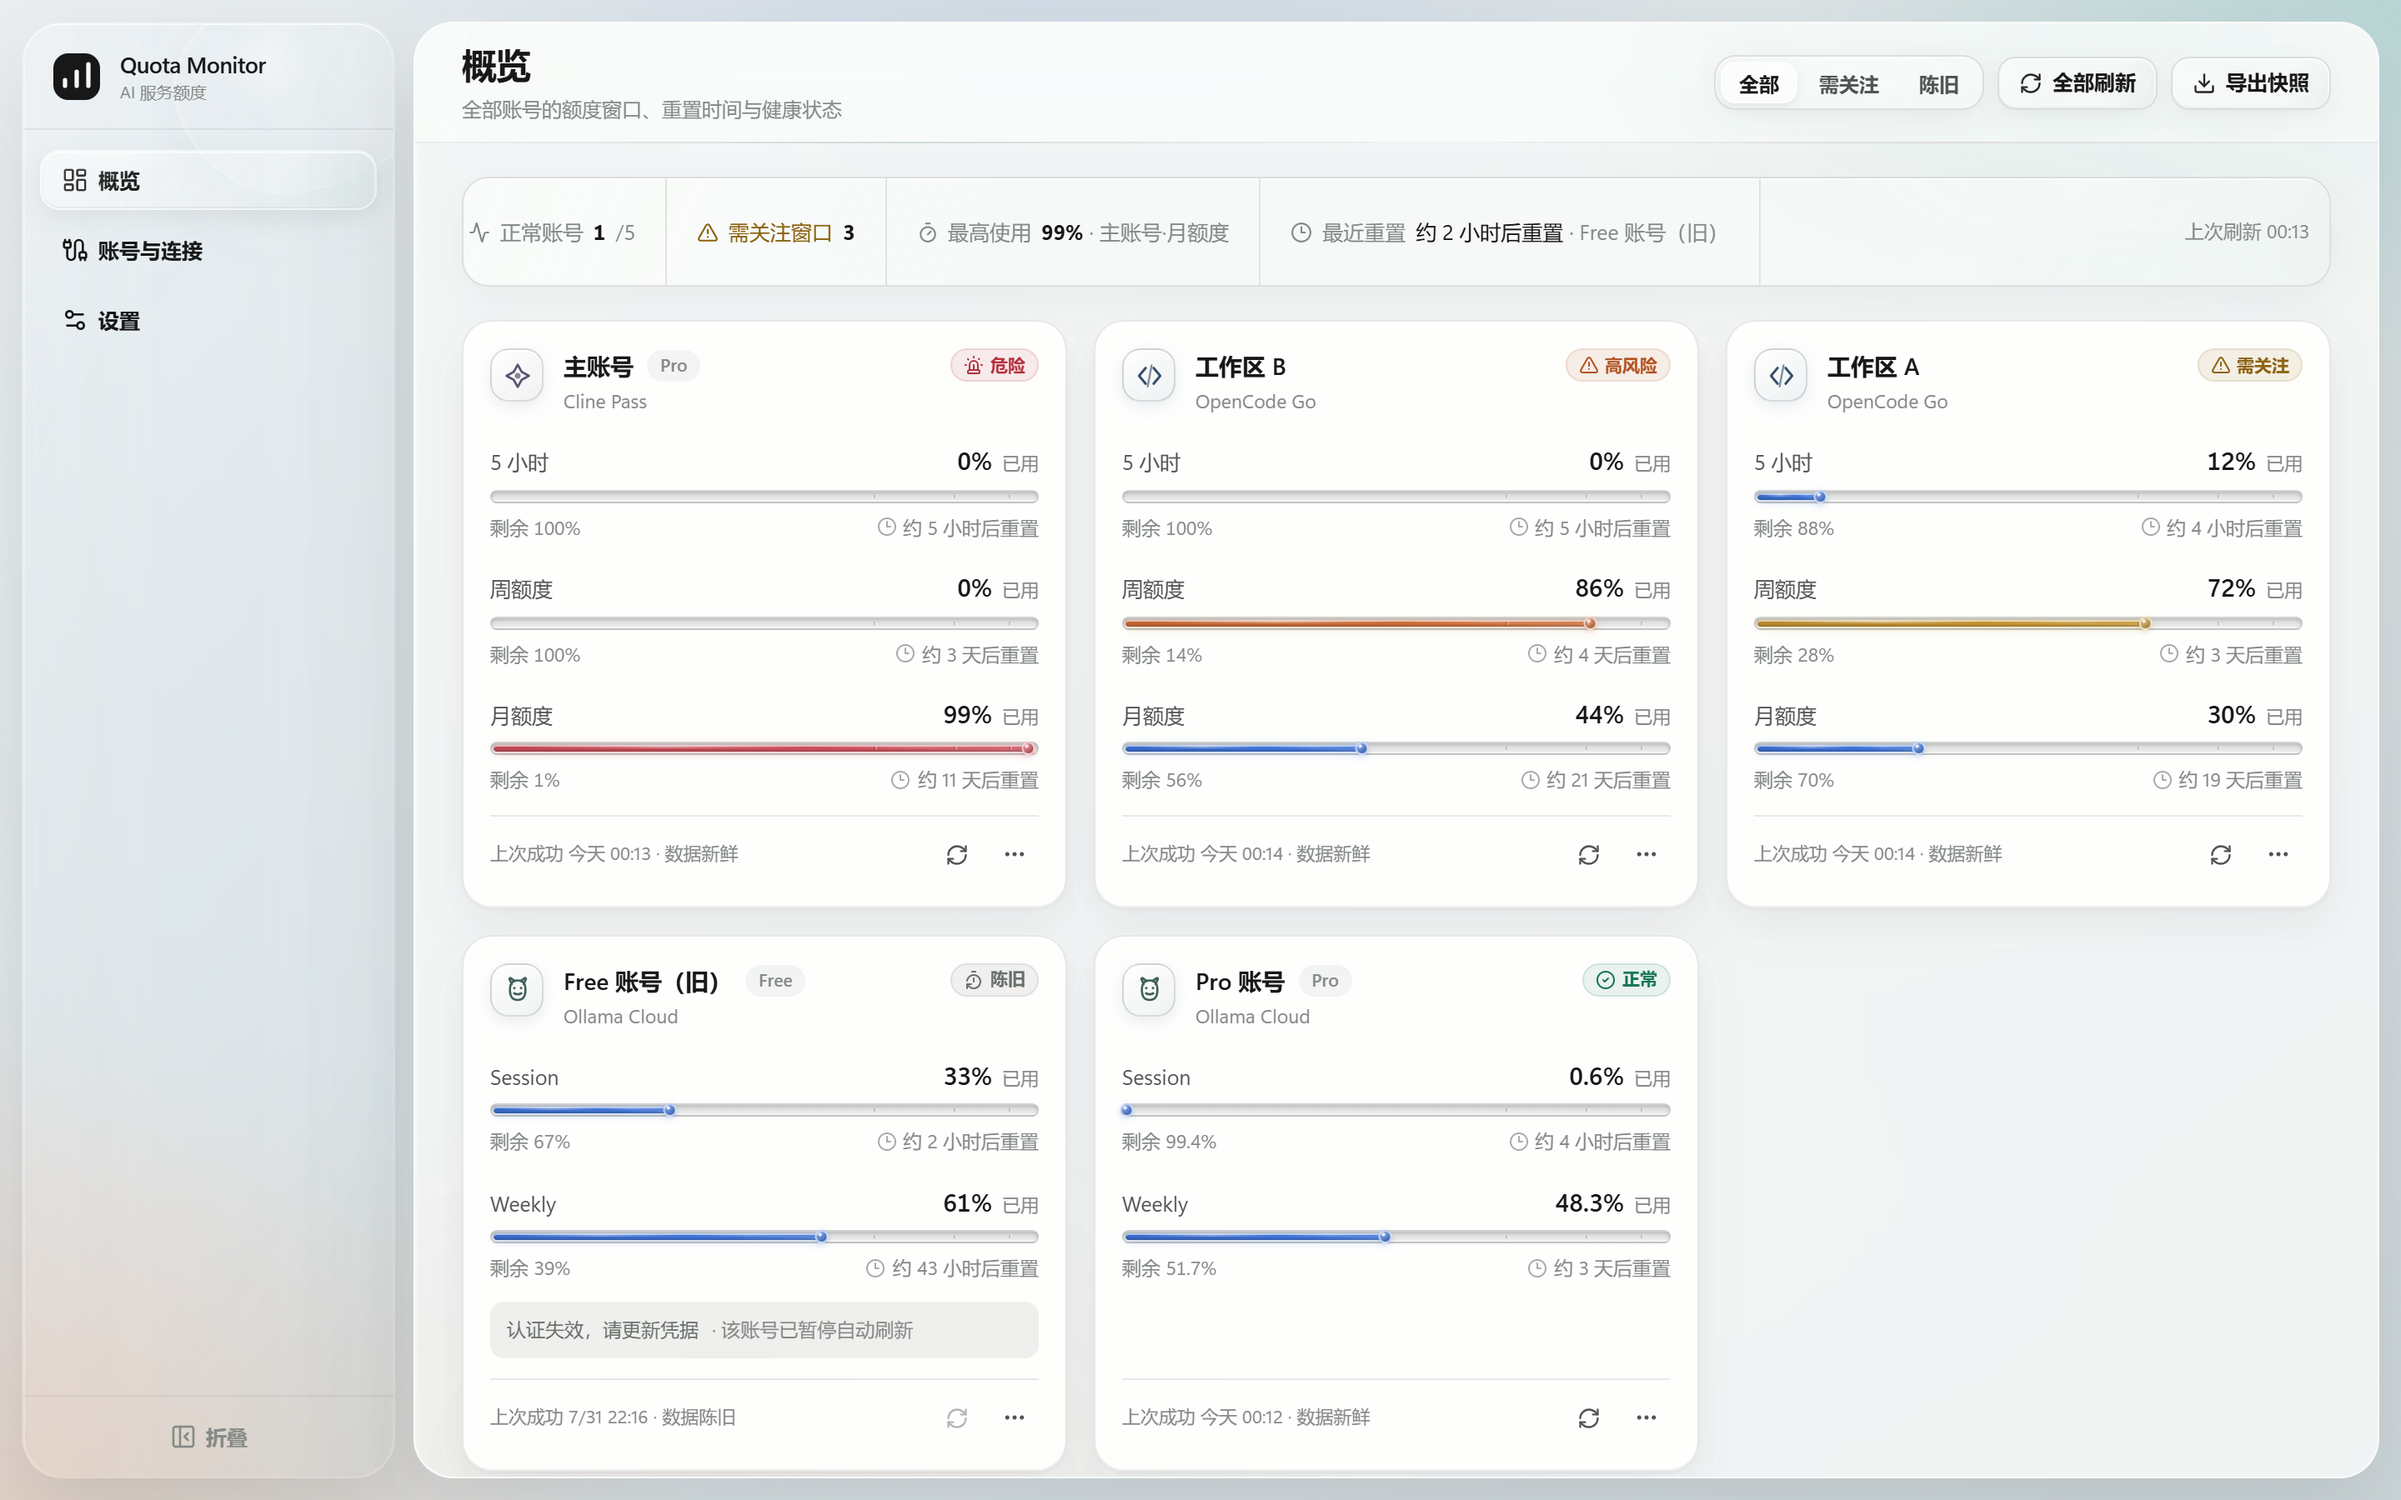
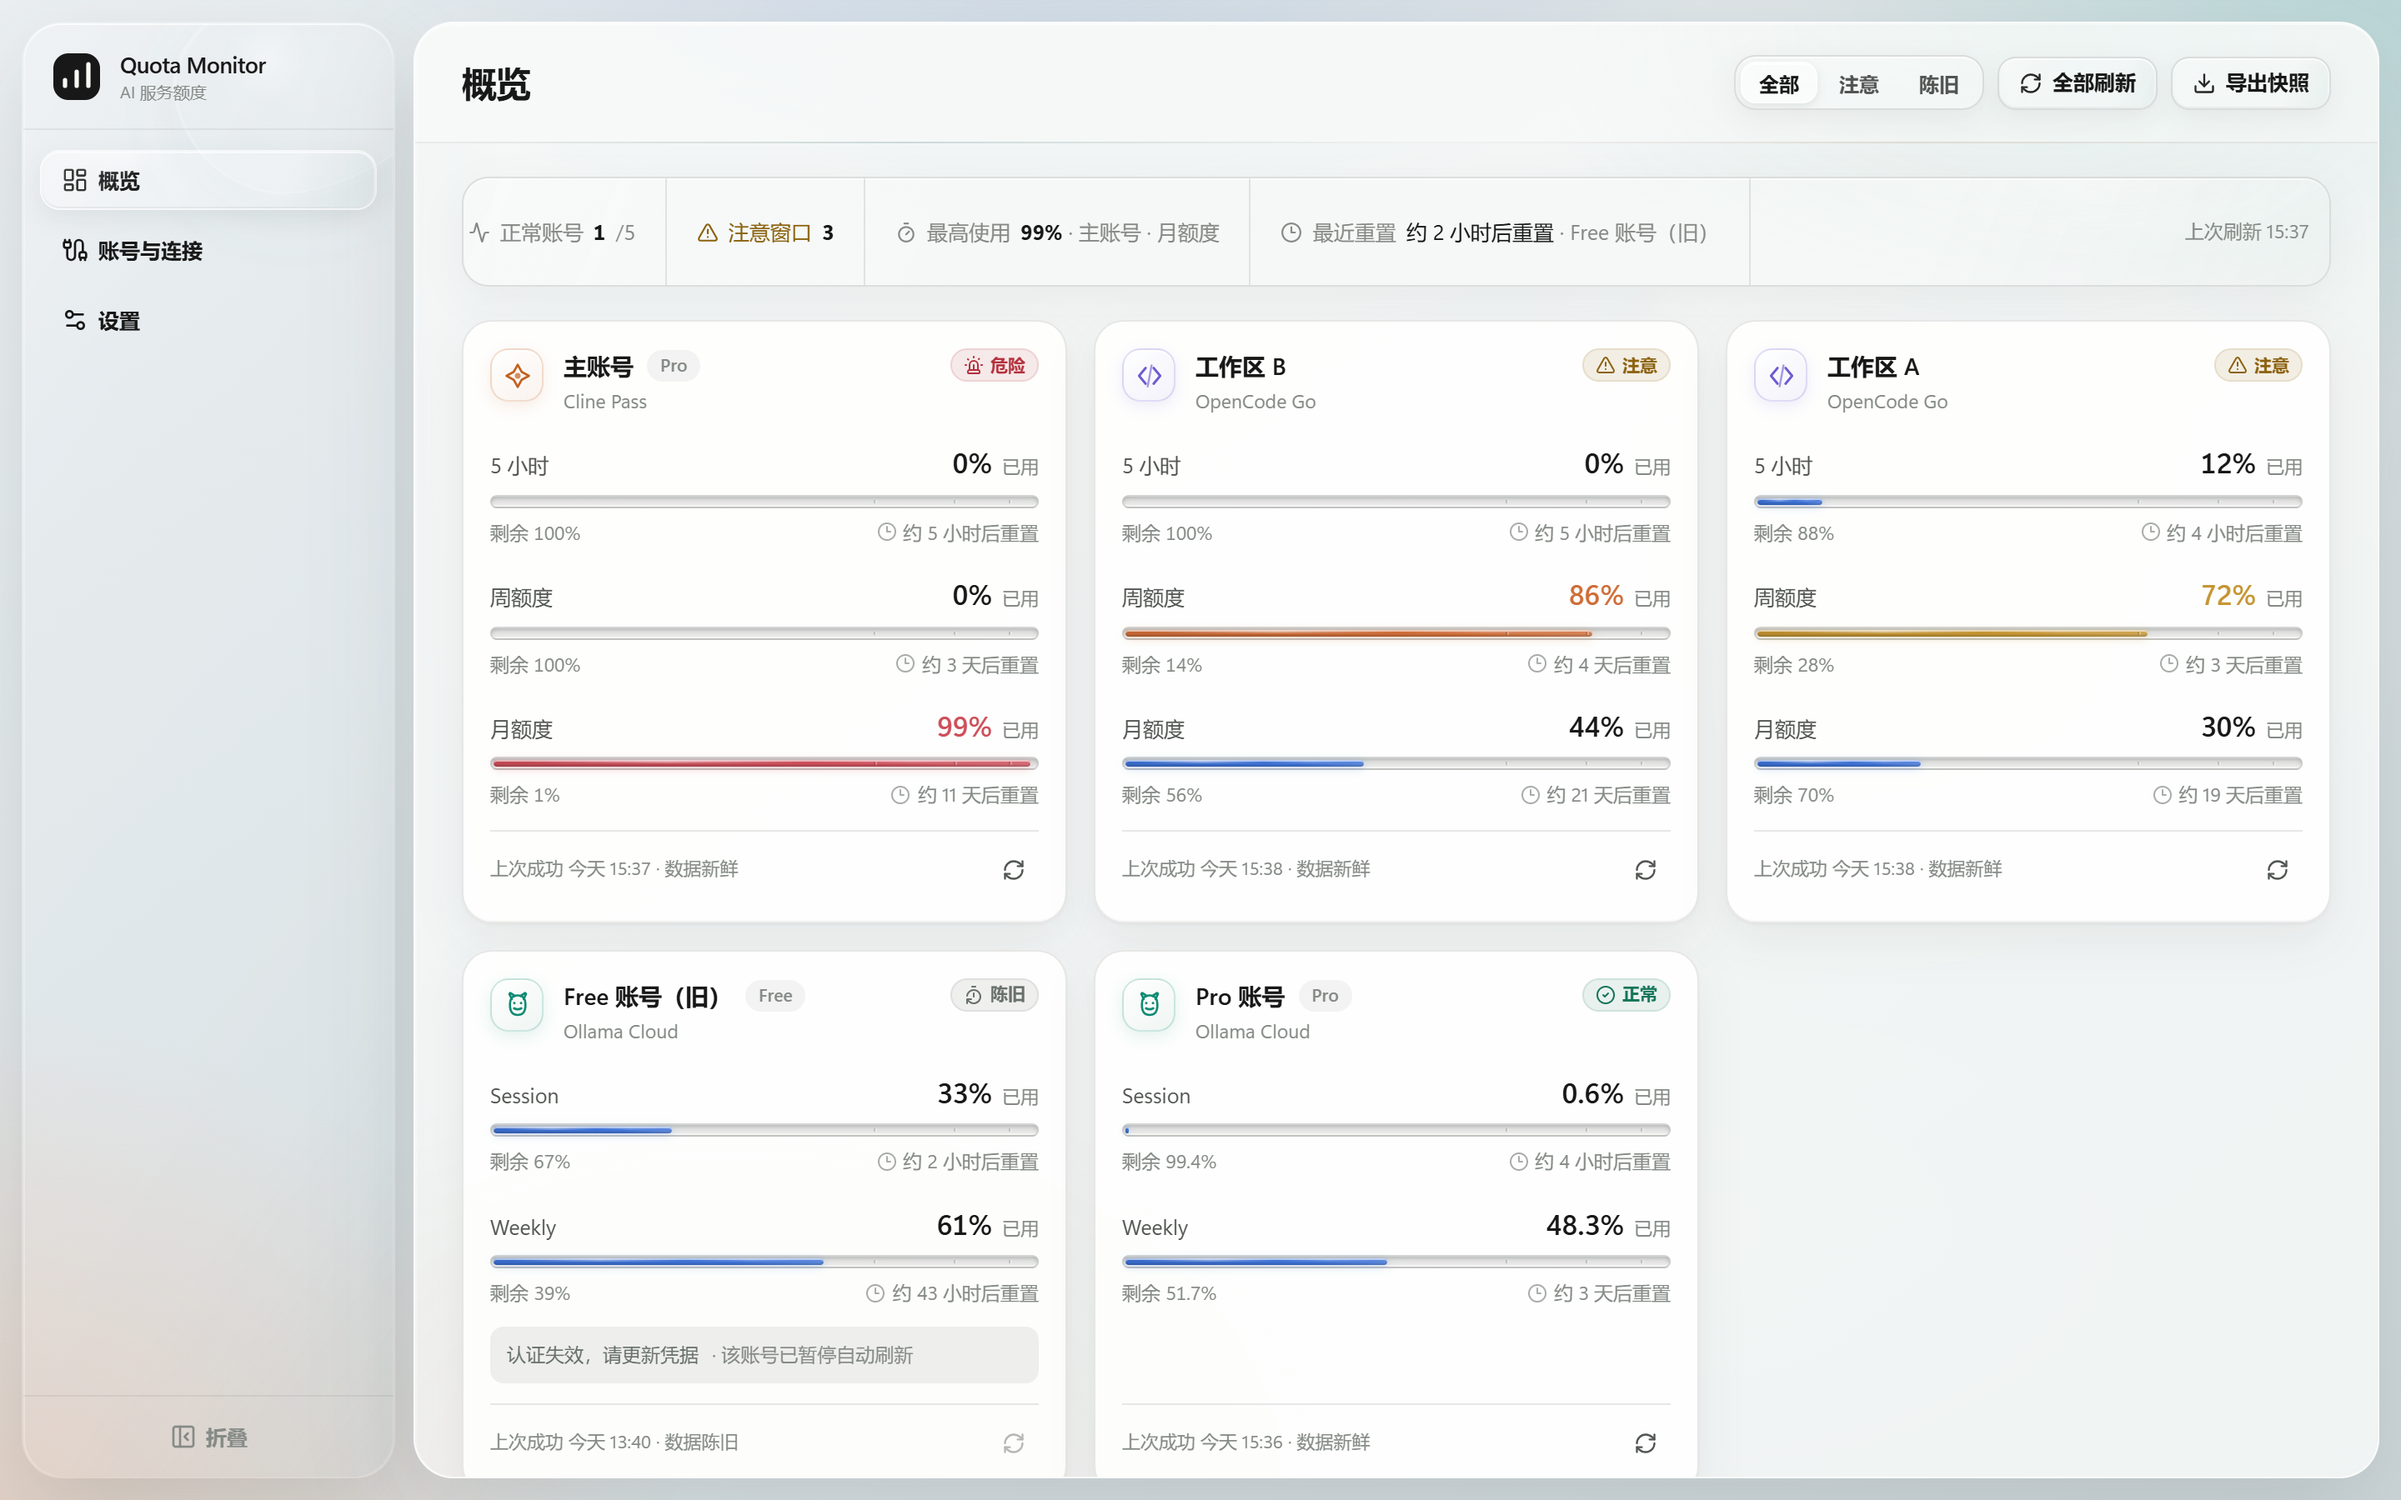
docs: 同步 DESIGN.md 交互基线、CHANGELOG 与 README 截图
- §8 重写为三页面+详情层结构，补充 toast/确认框/空状态/tone 下发等交互基线
- §3 DTO 说明补充 tone 字段由 Core 计算
- CHANGELOG 记录 Unreleased 交互与视觉重构
- §10.4 验收证据更新为当前检查结果
- README 概览截图更新为重构后界面

diff --git a/CHANGELOG.md b/CHANGELOG.md
@@ -1,5 +1,19 @@
 # Changelog
 
+## Unreleased
+
+交互与视觉重构（深度审核后的设计修正）：
+
+- 新增账号详情抽屉：概览卡片与账号行点击进入，聚合额度窗口、连接状态、
+  单账号趋势和全部账号操作；历史趋势从概览底部迁入详情层。
+- 窗口健康档位改由 Rust Core 按用户阈值计算下发，修复修改阈值后概览筛选失效的问题。
+- 新增 toast 反馈系统与应用内确认对话框，移除常驻横幅与原生 window.confirm。
+- 清除产品内说明性文案与调度器术语（"Phase 0 样本""退避至"等）。
+- 状态徽标收敛为三级风险（正常/注意/危险）加中性态；供应商识别色区分为橙/紫/青。
+- 窗口已用百分比提升为卡片视觉主角并按档位着色；进度条移除滑块式端点；
+  趋势图补齐时间刻度，系列配色按窗口类型固定。
+- 修复空状态混淆：筛选无结果不再误显示"还没有账号"。
+
 ## v0.1.0 — 2026-08-01
 
 首个公开版本。
